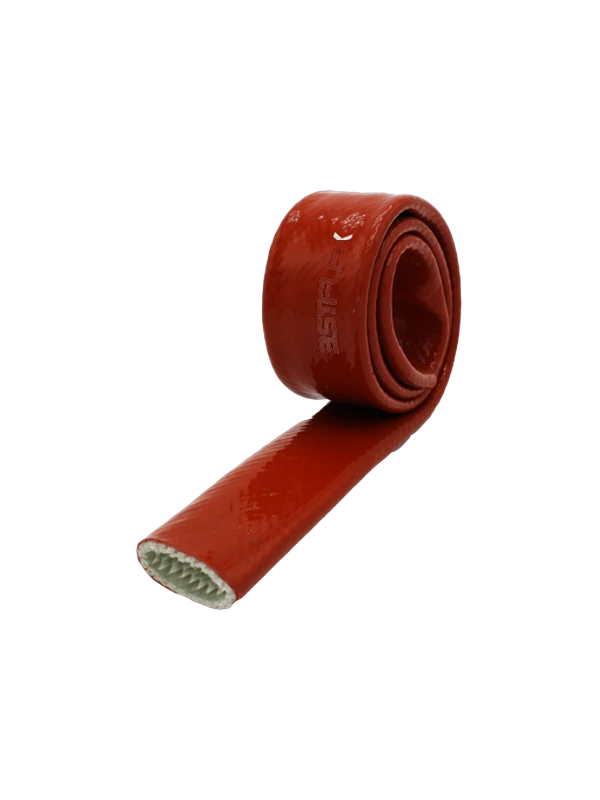
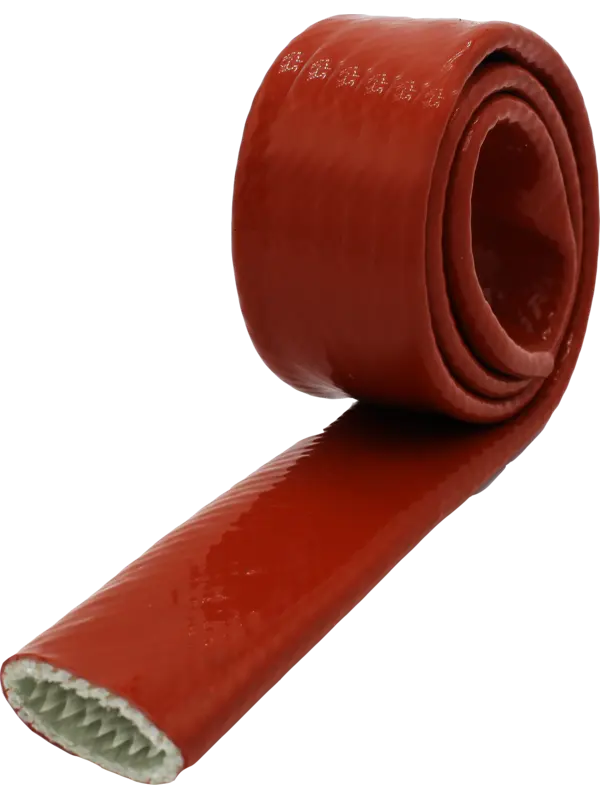
Hero: uniform image size (340×340 object-fit contain); Firesleeve: clean image

diff --git a/css/style.css b/css/style.css
@@ -598,11 +598,12 @@ button { border: none; background: none; font-family: inherit; cursor: pointer; 
   50% { transform: translateY(-18px) rotate(2deg); }
 }
 
-/* Angle carousel images */
+/* Angle carousel images — fixed box so all images appear same size */
 .product-angle {
   position: absolute;
-  width: 320px;
-  height: auto;
+  width: 340px;
+  height: 340px;
+  object-fit: contain;
   filter: drop-shadow(0 30px 60px rgba(0,0,0,0.6)) drop-shadow(0 0 40px rgba(27,79,155,0.35));
   opacity: 0;
   transition: opacity 0.8s ease;
